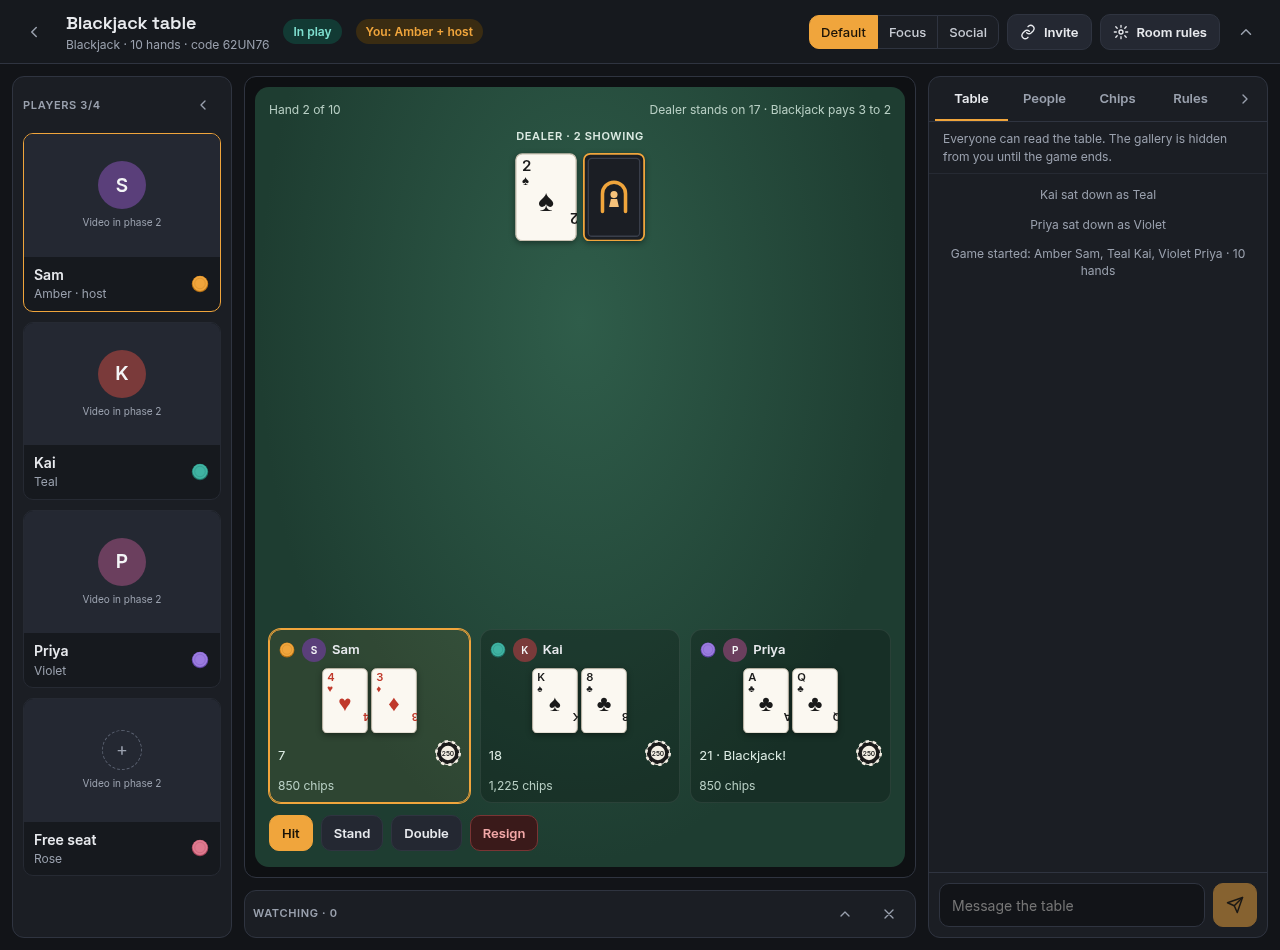
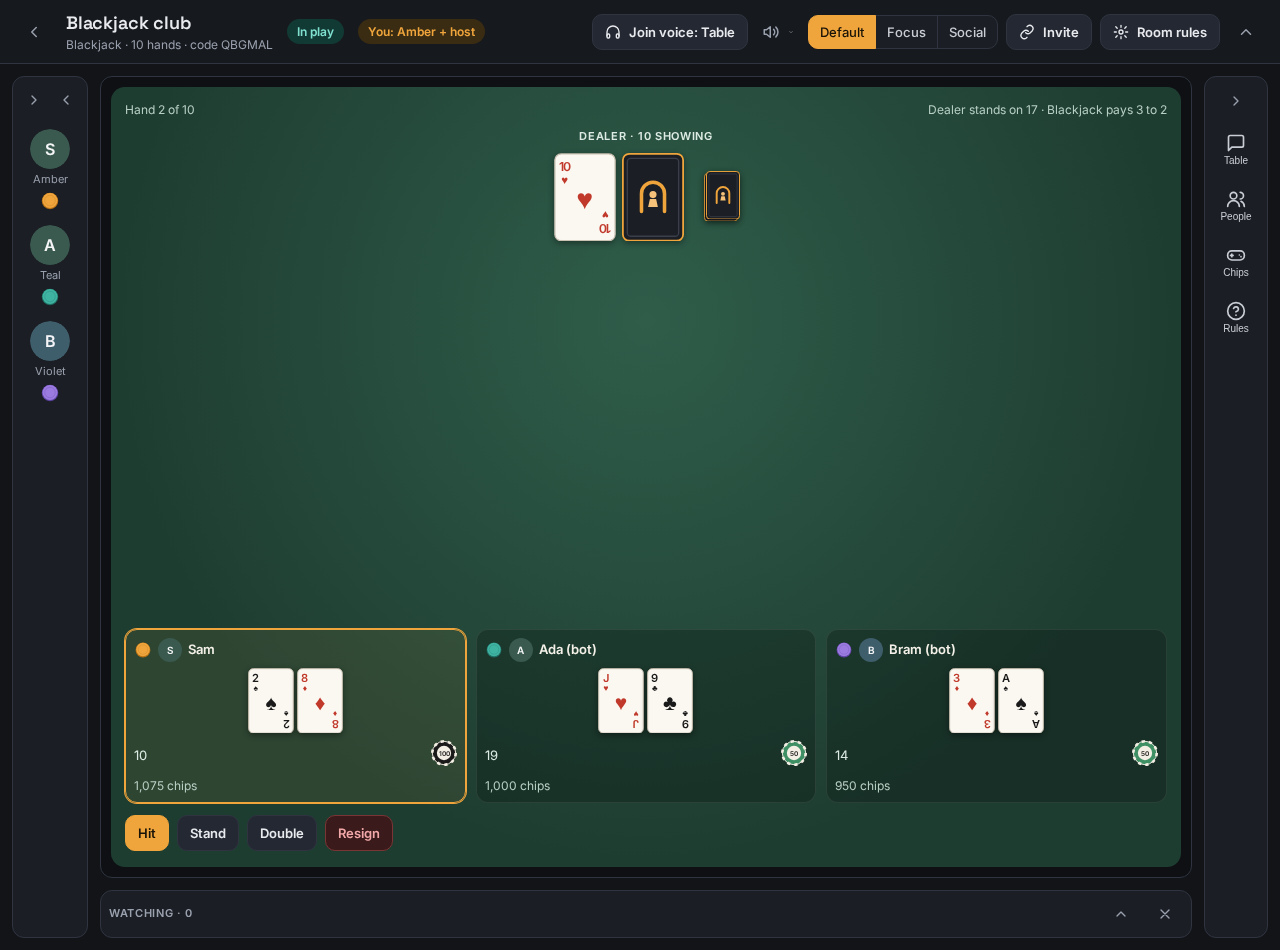
Playhall: new card table screenshots (Blackjack, Hold'em, Colour Clash)

diff --git a/playhall/README.md b/playhall/README.md
@@ -86,11 +86,11 @@ The five ships are drawn for Playhall: a carrier with its flight deck, a battles
 **The card games** share one deck design, a card back with the Playhall mark, and chips that always show their amount, and they use play chips only: nothing to buy and nothing to cash out. **Blackjack** is one to seven players against the house over a session of 5, 10 or 20 hands, most chips at the end winning (a game on your own is practice and doesn't count). **Texas Hold'em** is a sit-and-go for two to eight: everyone starts with the same chips, the blinds double every few hands, side pots look after short stacks, and the last player with chips wins. **Colour Clash** is our own colour-matching card game in the four player colours. In all three, your cards are hidden from everyone else, people watching included.
 
 <p>
-<img src="images/18-blackjack.png" width="49%" alt="Blackjack, hand 2 of 10: the dealer's 2 showing and a face-down card, Sam on 7 deciding whether to hit, Kai on 18 and Priya with a blackjack">
-<img src="images/20-holdem.png" width="49%" alt="Texas Hold'em after the turn: four shared cards, Morgan's own two cards face up and the others face down, and the buttons to fold, check, bet or go all in">
+<img src="images/18-blackjack.png" width="49%" alt="Blackjack, hand 2 of 10: the dealer's 10 showing and a face-down card, Sam on 10 deciding whether to hit or double, Ada (bot) on 19 and Bram (bot) on 14">
+<img src="images/20-holdem.png" width="49%" alt="Texas Hold'em with six players after the flop: three shared cards, Sam's pair of nines face up and the bots' cards face down, two bots folded, and the buttons to fold, check, bet or go all in">
 </p>
 
-![Colour Clash with four players: the others' card counts across the top, the draw pile and a rose 1 in play, and Priya's hand of five cards](images/19-colour-clash.png)
+![Colour Clash with three computer players: their card counts across the top, the draw pile and a Wild draw four in play (violet chosen), and Sam's hand of twelve with the one card that fits raised](images/19-colour-clash.png)
 
 **Hearts** is the classic trick-avoiding game for four: pass three cards, follow suit, and avoid taking hearts (a point each) and the queen of spades (13), unless you take every one of them and shoot the moon. **Poophead** is the shedding game many people know by a ruder name (it's also called Palace): three cards face down, three face up and three in hand, play equal or higher or pick up the pile, 2s reset it and 10s burn it, and the last player left holding cards is the Poophead. Both have computer players, so one person can fill a Hearts table.
 
